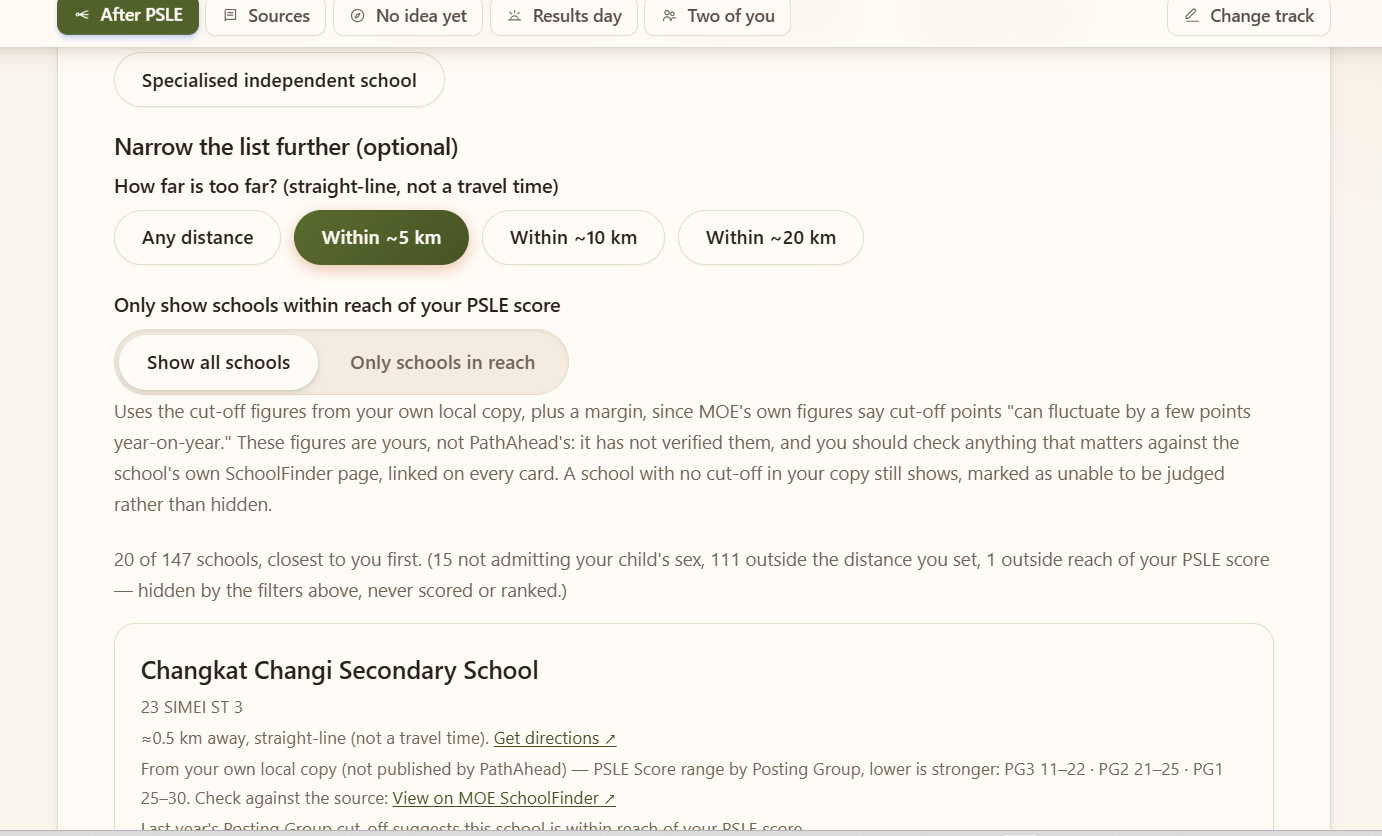
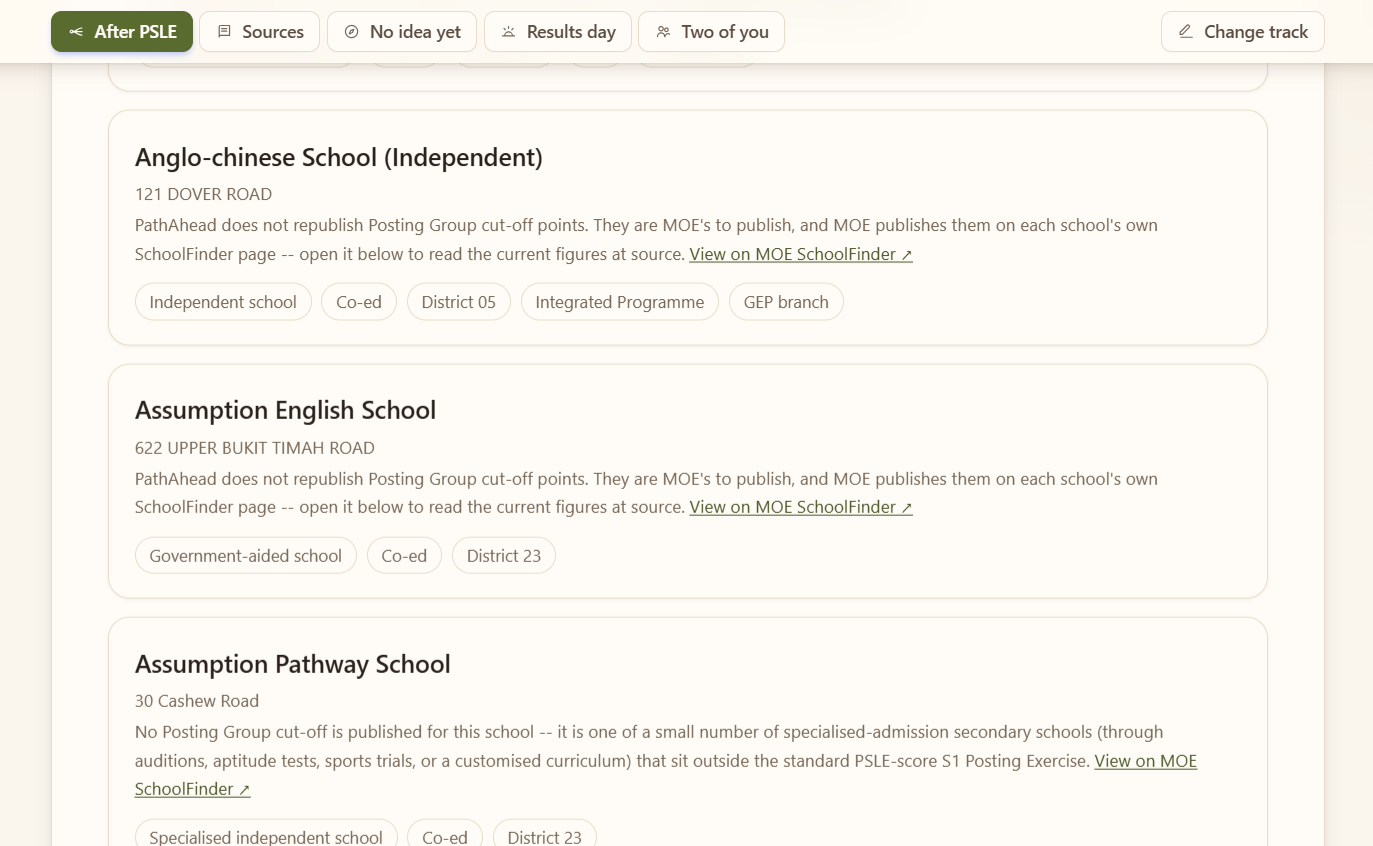
docs: retake the shortlist screenshot without the local cut-off overlay

diff --git a/docs/screenshots/README.md b/docs/screenshots/README.md
@@ -8,7 +8,7 @@ viewport (no browser chrome).
 |---|---|
 | `home.png` | The front door: the three stage doors (PSLE / O-Level / A-Level) |
 | `psle-landing.png` | The PSLE landing page, before a score is typed |
-| `psle-shortlist.png` | The PSLE school shortlist — every school shown by default, filters that hide, never rank |
+| `psle-shortlist.png` | The PSLE school shortlist — every school shown by default, cut-off figures linked out to MOE rather than reproduced |
 | `data-sources.png` | The Sources page — every figure dated, cited, and linked to where it came from |
 | `alevel-start.png` | A-Level: the one question that decides which rulebook applies |
 | `alevel-personalise.png` | A-Level: the optional personalisation questions |
@@ -17,10 +17,16 @@ To refresh one: `PathAhead_Install.bat` then `PathAhead_Start.bat`, open the pag
 screenshot the viewport only (crop out the browser's own address bar and any OS
 chrome), and overwrite the file above with the same name.
 
-Note: `psle-shortlist.png` was captured on a machine with a personal, local-only
-cut-off data overlay in place (see [docs/LOCAL_DATA.md](../LOCAL_DATA.md)) — that is
-why the screenshot shows real Posting Group figures on the school card. A clean
-checkout of this repository never ships that data; every school card instead links
-out to the school's own MOE SchoolFinder page. The screenshot is honest about what
-the *feature* looks like when a user has chosen to keep their own copy — it is not
-data this repository redistributes.
+If you keep a local-only cut-off overlay (docs/LOCAL_DATA.md), move it aside and
+**rebuild** before capturing anything that shows a school card. `PathAhead_Start.bat`
+only runs `serve` -- it does not recompile the pack, so moving the overlay alone
+changes nothing and the browser keeps serving the figures:
+
+    move packs\singapore\local packs\singapore\local.aside
+    .venv\Scripts\python.exe app\cli.py build --out web\data
+
+Then hard-refresh (Ctrl+Shift+R) and confirm the count is zero before screenshotting:
+
+    .venv\Scripts\python.exe -c "import json;p=json.load(open('web/data/singapore.json',encoding='utf-8'));print(sum(1 for s in p['schools'] if s.get('cutoff_2025')),'schools carry cut-offs')"
+
+Restore afterwards by moving the folder back and rebuilding again.

diff --git a/README.md b/README.md
@@ -54,7 +54,7 @@ The PSLE page opens with **no score box above the fold**. Before it asks for any
 
 Then it helps with the real task: **shortlisting 147 secondary schools**.
 
-<img src="docs/screenshots/psle-shortlist.png" alt="The school shortlist: filters for distance bands and PSLE reach, a plain-English summary reading '20 of 147 schools, closest to you first', and a school card showing address, straight-line distance, a Get Directions link, the Posting Group range from the user's own local copy, and a link to check it on MOE SchoolFinder." width="100%">
+<img src="docs/screenshots/psle-shortlist.png" alt="The school shortlist: school cards in alphabetical order -- Anglo-Chinese School (Independent), Assumption English School and Assumption Pathway School -- each showing its address, a line explaining that PathAhead does not republish Posting Group cut-off points because they are MOE's to publish, a link out to that school's own MOE SchoolFinder page, and tags for school type, co-ed status and district. The Assumption Pathway card explains instead that no cut-off is published for it at all, because it is a specialised-admission school sitting outside the standard PSLE-score posting exercise." width="100%">
 
 Every school shows **by default**. Filters *hide* — they never rank, never score, and never sort by selectivity. The summary line always says exactly how many were hidden and why ("15 not admitting your child's sex, 111 outside the distance you set"), because a filter that quietly removes options is worse than no filter at all.
 
